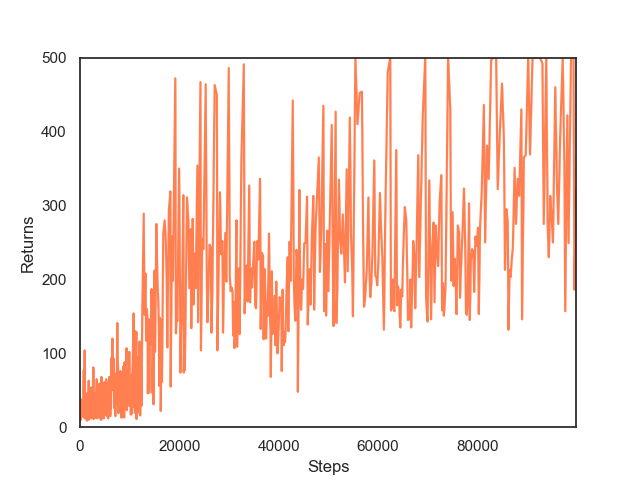
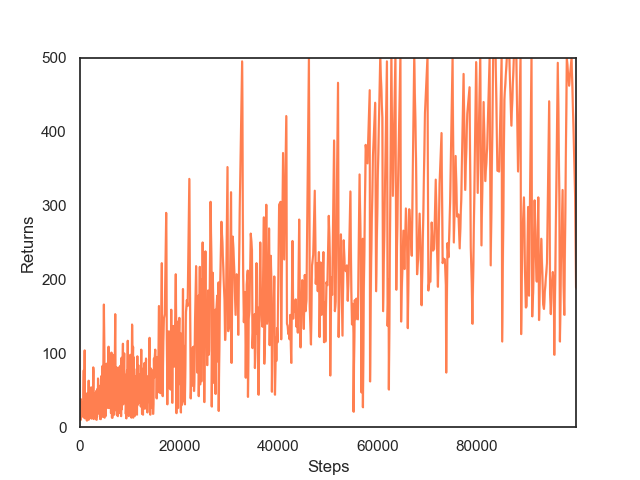
Add PPO entropy loss (unused) and grad norm clamping

Changed region(s): [[0.125, 0.125, 0.9062, 0.875], [0.7188, 0.9062, 0.7812, 0.9375], [0.4062, 0.9062, 0.4688, 0.9375]]

diff --git a/main.py b/main.py
@@ -21,8 +21,11 @@ parser.add_argument('--discount', type=float, default=0.99, metavar='γ', help='
 parser.add_argument('--trace-decay', type=float, default=0.95, metavar='λ', help='GAE trace decay')
 parser.add_argument('--ppo-clip', type=float, default=0.2, metavar='ε', help='PPO clip ratio')
 parser.add_argument('--ppo-epochs', type=int, default=4, metavar='E', help='PPO epochs')
+parser.add_argument('--value-loss-coeff', type=float, default=1, metavar='c1', help='Value loss coefficient')
+parser.add_argument('--entropy-loss-coeff', type=float, default=0, metavar='c2', help='Entropy loss coefficient')
 parser.add_argument('--learning-rate', type=float, default=0.001, metavar='η', help='Learning rate')
 parser.add_argument('--batch-size', type=int, default=2048, metavar='B', help='Minibatch size')
+parser.add_argument('--max-grad-norm', type=float, default=1, metavar='N', help='Maximum gradient L2 norm')
 parser.add_argument('--evaluation-interval', type=int, default=10000, metavar='EI', help='Evaluation interval')
 parser.add_argument('--evaluation-episodes', type=int, default=50, metavar='EE', help='Evaluation episodes')
 parser.add_argument('--save-trajectories', action='store_true', default=False, help='Store trajectories from agent after training')
@@ -39,8 +42,7 @@ os.makedirs('results', exist_ok=True)
 env = CartPoleEnv()
 env.seed(args.seed)
 agent = ActorCritic(env.observation_space.shape[0], env.action_space.n, args.hidden_size)
-actor_optimiser = optim.RMSprop(agent.actor.parameters(), lr=args.learning_rate)
-critic_optimiser = optim.RMSprop(agent.critic.parameters(), lr=args.learning_rate)
+agent_optimiser = optim.RMSprop(agent.parameters(), lr=args.learning_rate)
 if args.imitation:
   # Set up expert trajectories dataset and discriminator
   expert_trajectories = torch.load('expert_trajectories.pth')
@@ -62,10 +64,10 @@ for step in pbar:
   # Collect set of trajectories by running policy π in the environment
   policy, value = agent(state)
   action = policy.sample()
-  log_prob_action = policy.log_prob(action)
+  log_prob_action, entropy = policy.log_prob(action), policy.entropy()
   next_state, reward, terminal = env.step(action)
   episode_return += reward
-  trajectories.append(dict(states=state, actions=action, rewards=torch.tensor([reward], dtype=torch.float32), terminals=torch.tensor([terminal], dtype=torch.float32), log_prob_actions=log_prob_action, old_log_prob_actions=log_prob_action.detach(), values=value))
+  trajectories.append(dict(states=state, actions=action, rewards=torch.tensor([reward], dtype=torch.float32), terminals=torch.tensor([terminal], dtype=torch.float32), log_prob_actions=log_prob_action, old_log_prob_actions=log_prob_action.detach(), values=value, entropies=entropy))
   state = next_state
 
   if terminal:
@@ -89,13 +91,13 @@ for step in pbar:
         for _ in range(100 if step < 1000 else args.imitation_epochs):  # Warm up discriminator for longer at begining of training TODO: How to set?
           adversarial_imitation_update(args.imitation, agent, discriminator, expert_trajectories, TransitionDataset(policy_trajectories), discriminator_optimiser, args.imitation_batch_size)
         if args.imitation == 'GAIL':
-          policy_trajectories['rewards'] = discriminator.predict_rewards(policy_trajectories['states'], policy_trajectories['actions'])
+          policy_trajectories['rewards'] = discriminator.predict_reward(policy_trajectories['states'], policy_trajectories['actions'])
         elif args.imitation == 'AIRL':
-          policy_trajectories['rewards'] = discriminator.predict_rewards(policy_trajectories['states'], policy_trajectories['actions'], torch.cat([policy_trajectories['states'][1:], next_state]), policy_trajectories['log_prob_actions'].exp())  # TODO: Implement terminal masking?
+          policy_trajectories['rewards'] = discriminator.predict_reward(policy_trajectories['states'], policy_trajectories['actions'], torch.cat([policy_trajectories['states'][1:], next_state]), policy_trajectories['log_prob_actions'].exp())  # TODO: Implement terminal masking?
 
       # Perform PPO updates
       for epoch in range(args.ppo_epochs):
-        ppo_update(agent, policy_trajectories, actor_optimiser, critic_optimiser, args.ppo_clip, epoch)
+        ppo_update(agent, policy_trajectories, agent_optimiser, args.ppo_clip, epoch, args.value_loss_coeff, args.entropy_loss_coeff)
 
   # Evaluate agent and plot metrics
   if step % args.evaluation_interval == 0:

diff --git a/training.py b/training.py
@@ -1,5 +1,6 @@
 import torch
 from torch.nn import functional as F
+from torch.nn.utils import clip_grad_norm_
 from torch.utils.data import DataLoader, Dataset
 
 
@@ -30,27 +31,24 @@ def compute_advantages(trajectories, discount, trace_decay):
 
 
 # Performs one PPO update (assumes trajectories for first epoch are attached to agent)
-def ppo_update(agent, trajectories, actor_optimiser, critic_optimiser, ppo_clip, epoch):
+def ppo_update(agent, trajectories, agent_optimiser, ppo_clip, epoch, value_loss_coeff=1, entropy_loss_coeff=1):
   # Recalculate outputs for subsequent iterations
   if epoch > 0:
     policy, trajectories['values'] = agent(trajectories['states'])
-    trajectories['log_prob_actions'] = policy.log_prob(trajectories['actions'].detach())
+    trajectories['log_prob_actions'], trajectories['entropies'] = policy.log_prob(trajectories['actions'].detach()), policy.entropy()
 
   # Update the policy by maximising the clipped PPO objective
   policy_ratio = (trajectories['log_prob_actions'] - trajectories['old_log_prob_actions']).exp()
   policy_loss = -torch.min(policy_ratio * trajectories['advantages'], torch.clamp(policy_ratio, min=1 - ppo_clip, max=1 + ppo_clip) * trajectories['advantages']).mean()
-  actor_optimiser.zero_grad()
-  policy_loss.backward()
-  actor_optimiser.step()
-
   # Fit value function by regression on mean squared error
-  value_loss = F.mse_loss(trajectories['values'], trajectories['rewards_to_go'])  # TODO: Value loss weight 0.5?
-  critic_optimiser.zero_grad()
-  value_loss.backward()
-  critic_optimiser.step()
-
-  # TODO: Entropy loss with weight 0.01?
-  # TODO: Gradient clipping with max grad norm 0.5?
+  value_loss = F.mse_loss(trajectories['values'], trajectories['rewards_to_go'])
+  # Add entropy regularisation
+  entropy_loss = -trajectories['entropies'].mean()  
+  
+  agent_optimiser.zero_grad()
+  (policy_loss + value_loss_coeff * value_loss + entropy_loss_coeff * entropy_loss).backward()
+  clip_grad_norm_(agent.parameters(), 1)  # Clamp norm of gradients
+  agent_optimiser.step()
 
 
 # Performs an adversarial imitation learning update
@@ -66,12 +64,8 @@ def adversarial_imitation_update(algorithm, agent, discriminator, expert_traject
       D_expert = discriminator(expert_state, expert_action)
       D_policy = discriminator(policy_state, policy_action)
     elif algorithm == 'AIRL':
-      with torch.no_grad():
-        policy = agent.log_prob(expert_state, expert_action).exp()
-      D_expert = discriminator(expert_state, expert_action, expert_next_state, policy)
-      with torch.no_grad():
-        policy = agent.log_prob(policy_state, policy_action).exp()
-      D_policy = discriminator(policy_state, expert_action, policy_next_state, policy)
+      D_expert = discriminator(expert_state, expert_action, expert_next_state, agent.log_prob(expert_state, expert_action).exp())
+      D_policy = discriminator(policy_state, expert_action, policy_next_state, agent.log_prob(policy_state, policy_action).exp())
  
     discriminator_optimiser.zero_grad()
     expert_loss = F.binary_cross_entropy(D_expert, torch.ones_like(D_expert))  # Loss on "real" (expert) data

diff --git a/models.py b/models.py
@@ -33,8 +33,10 @@ class ActorCritic(nn.Module):
     policy, value = self.actor(state), self.critic(state)
     return policy, value
 
+  # Calculates the log probability of an action a with the policy π(·|s) given state s
   def log_prob(self, state, action):
-    return self.actor(state).log_prob(action)
+    with torch.no_grad():
+      return self.actor(state).log_prob(action)
 
 
 class AddLinearEmbed(nn.Module):
@@ -58,7 +60,7 @@ class GAILDiscriminator(nn.Module):
     D = self.discriminator(state if self.state_only else (state, action)).squeeze(dim=1)
     return D
   
-  def predict_rewards(self, state, action):
+  def predict_reward(self, state, action):
     with torch.no_grad():
       D = self.forward(state, action)
       return torch.log(D) - torch.log1p(-D)
@@ -72,18 +74,18 @@ class AIRLDiscriminator(nn.Module):
     self.g = nn.Linear(state_size, 1) if state_only else AddLinearEmbed(state_size, action_size, 1)  # Reward function r
     self.h = nn.Sequential(nn.Linear(state_size, hidden_size), nn.Tanh(), nn.Linear(hidden_size, hidden_size), nn.Tanh(), nn.Linear(hidden_size, 1))  # Shaping function Φ
 
-  def get_reward(self, state_action):
+  def reward(self, state_action):
     return self.g(state_action[0] if self.state_only else state_action).squeeze(dim=1)
 
-  def get_value(self, state):
+  def value(self, state):
     return self.h(state).squeeze(dim=1)
 
   def forward(self, state, action, next_state, policy):
-    f = self.get_reward((state, ) if self.state_only else (state, action)) + self.discount * self.get_value(next_state) - self.get_value(state)
+    f = self.reward((state, ) if self.state_only else (state, action)) + self.discount * self.value(next_state) - self.value(state)
     f_exp = f.exp()
     return f_exp / (f_exp + policy)
 
-  def predict_rewards(self, state, action, next_state, policy):
+  def predict_reward(self, state, action, next_state, policy):
     with torch.no_grad():
       D = self.forward(state, action, next_state, policy)
       return torch.log(D) - torch.log1p(-D)

diff --git a/README.md b/README.md
@@ -7,6 +7,7 @@ Imitation learning algorithms (with PPO [[1]](#references)):
 - GAIL [[2]](#references)
 - ~~GMMIL [[3]](#references)~~
 - AIRL [[4]](#references)
+- ~~RED [[5]](#references)~~
 
 ```
 python main.py --imitation [AIRL|GAIL]
@@ -44,4 +45,5 @@ References
 [1] [Proximal Policy Optimization Algorithms](https://arxiv.org/abs/1707.06347)  
 [2] [Generative Adversarial Imitation Learning](https://arxiv.org/abs/1606.03476)  
 [3] [Imitation Learning via Kernel Mean Embedding](https://www.aaai.org/ocs/index.php/AAAI/AAAI18/paper/viewPaper/16807)  
-[4] [Learning Robust Rewards with Adversarial Inverse Reinforcement Learning](https://arxiv.org/abs/1710.11248)
+[4] [Learning Robust Rewards with Adversarial Inverse Reinforcement Learning](https://arxiv.org/abs/1710.11248)  
+[5] [Random Expert Distillation: Imitation Learning via Expert Policy Support Estimation](https://arxiv.org/abs/1905.06750)
